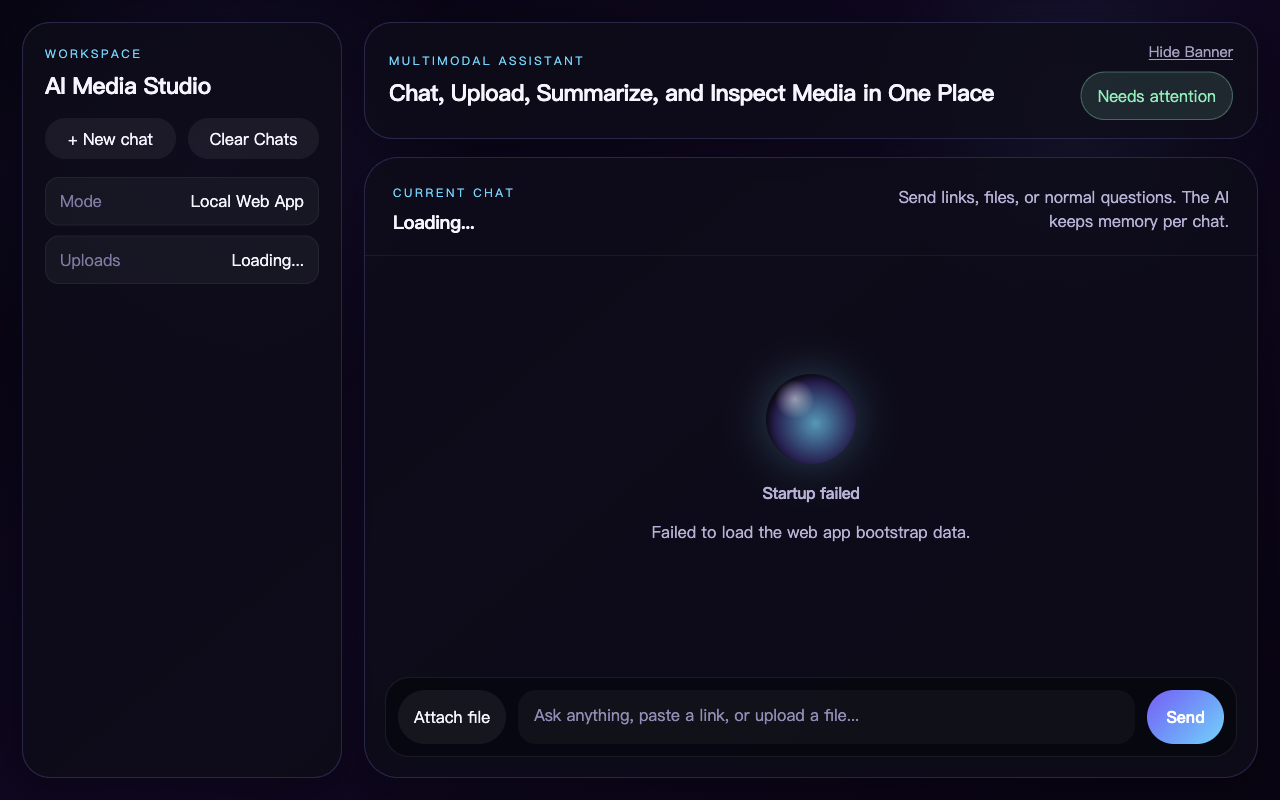
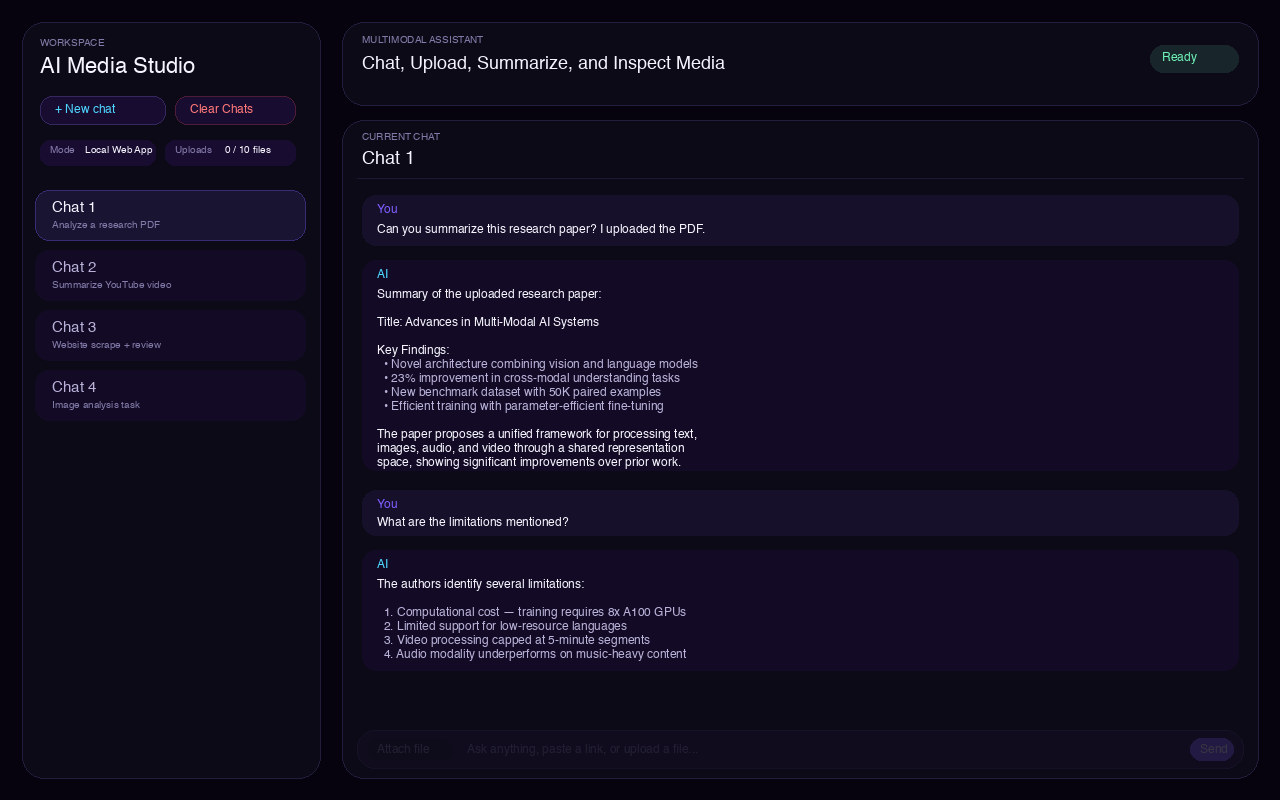
docs: replace screenshots, add diagrams and new UI images
- Replace broken startup-failed screenshot with clean workspace mockup
- Add YouTube analysis and website+file comparison screenshots
- New system architecture diagram (client, server, extractors, providers)
- New processing pipeline diagram (input types → extraction → summarization)
- Update README with all new images and captions

diff --git a/README.md b/README.md
@@ -6,11 +6,39 @@ It supports multiple AI providers through [LiteLLM](https://docs.litellm.ai/), i
 
 People are very welcome to improve this project, remix it, fork it, stress-test it, and point out weak spots. If you find better libraries, cleaner architecture, safer workflows, stronger prompts, better UI ideas, or broken edge cases, I genuinely want that feedback.
 
-## Screenshot
+## Screenshots
 
-![AI Media Studio — Dark workspace with sidebar, chat area, and file upload](docs/images/scraper-ui.png)
+### Workspace — Multi-Chat Interface with Document Analysis
 
-*The workspace UI with sidebar chat management, hero banner, chat area, and the input bar with file attachment and send button.*
+![Workspace UI — PDF analysis conversation](docs/images/scraper-ui.png)
+
+*The main workspace showing sidebar chat management, hero banner, chat area with an AI-summarized research paper, and the input bar with file attachment.*
+
+### YouTube Video Analysis
+
+![YouTube analysis — transcript extraction and summary](docs/images/youtube-analysis.png)
+
+*A YouTube link is pasted in chat and the AI extracts the transcript, summarizes key points, and answers follow-up questions.*
+
+### Website Scraping + File Comparison
+
+![Website scrape and file upload comparison](docs/images/website-file-analysis.png)
+
+*A website is scraped and summarized, then a PDF is uploaded and compared against the article — showing multi-step analysis in a single chat.*
+
+## Diagrams
+
+### System Architecture
+
+![System Architecture](docs/images/architecture.png)
+
+*Three-layer architecture: Web UI communicates with a FastAPI server that dispatches work to specialized extractors (web, YouTube, documents, vision, audio, music) and routes LLM calls through LiteLLM to five AI providers.*
+
+### Processing Pipeline
+
+![Processing Pipeline](docs/images/processing-pipeline.png)
+
+*How different input types (URLs, YouTube links, documents, images, audio, video) flow through layered extraction with fallback chains, converging into a final LiteLLM summary stored in per-chat SQLite memory.*
 
 ## Supported AI Models
 
